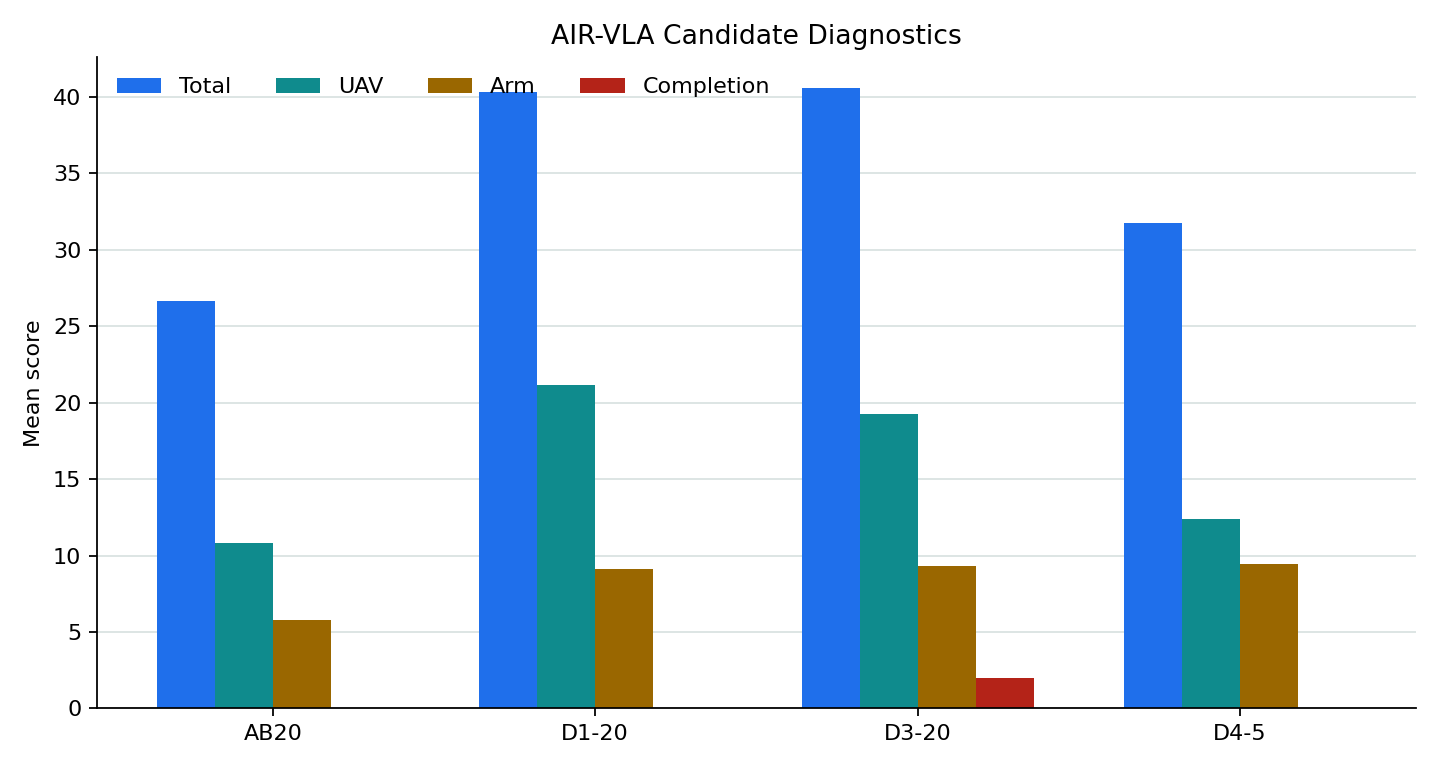
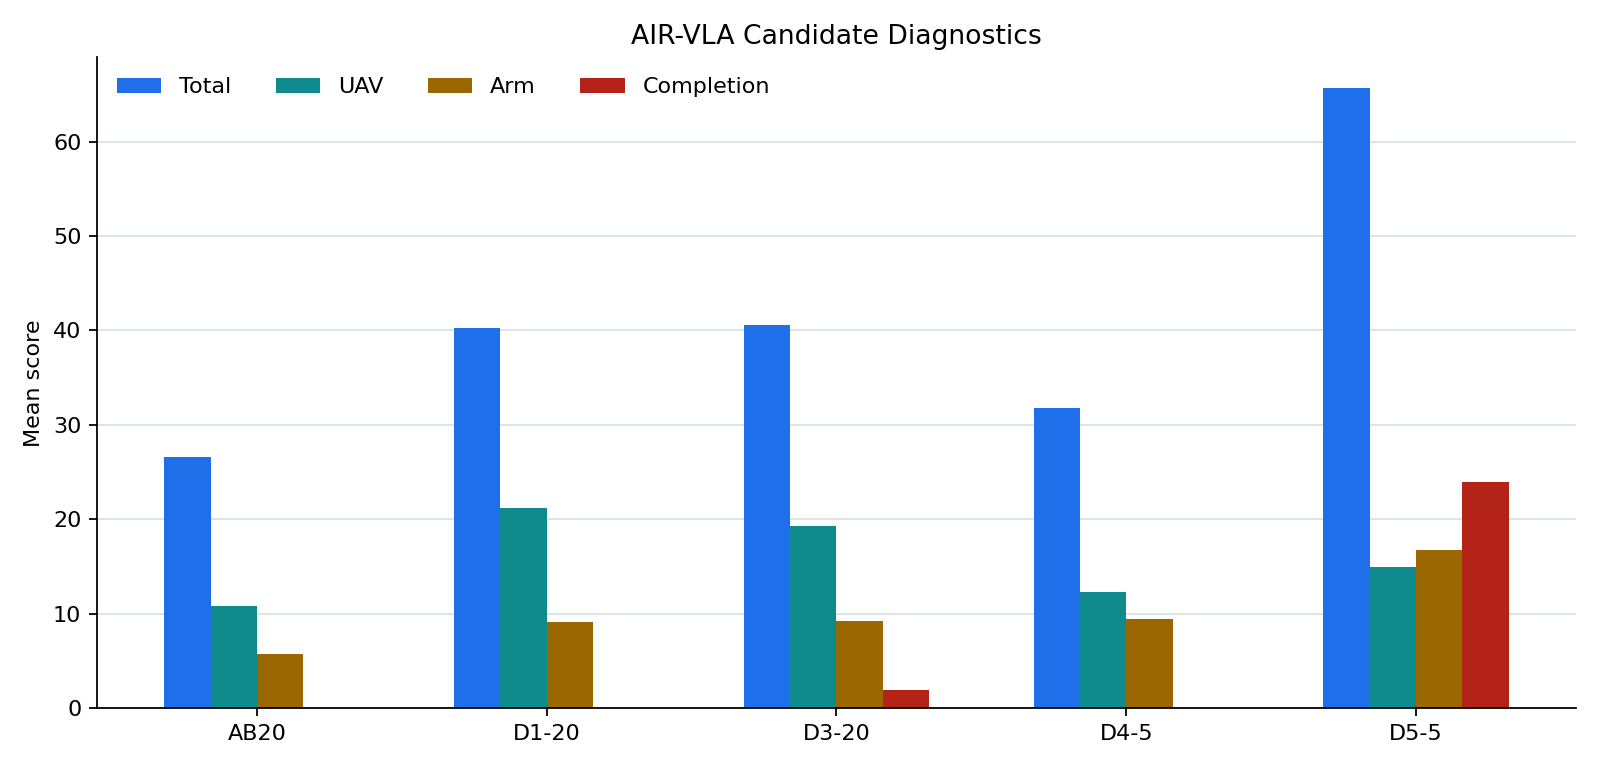
Add D5 AIR-VLA diagnostic to project page

diff --git a/index.html b/index.html
@@ -4,7 +4,7 @@
     <meta charset="utf-8">
     <meta name="viewport" content="width=device-width, initial-scale=1">
     <title>Execution-Feedback AIR-VLA Current Server Evidence</title>
-    <meta name="description" content="A bounded AIR-VLA and EF-AIR-VLA D0-D1 project page from the Work4 RTX5090 server sweep.">
+    <meta name="description" content="A bounded AIR-VLA and EF-AIR-VLA D0-D5 project page from the Work4 RTX5090 server sweep.">
     <link rel="stylesheet" href="styles.css">
   </head>
   <body>
@@ -20,7 +20,7 @@
       <div class="hero-inner">
         <p class="eyebrow">Work4 RTX5090 server sweep</p>
         <h1>Execution-Feedback AIR-VLA Current Server Evidence</h1>
-        <p class="subtitle">A bounded AIR-VLA and EF-AIR-VLA project page built from real server logs, metric tables, loss curves, and evaluator rollout media.</p>
+        <p class="subtitle">Real server evidence with evaluator GIFs, compact metrics, training curves, and gate-relative placement equations.</p>
         <div class="authors">Work4 embodied aerial manipulation study</div>
         <div class="button-row">
           <a class="button primary" href="data/site.json">Evidence JSON</a>
@@ -47,7 +47,7 @@
       <section id="abstract" class="section narrow">
         <h2>Abstract</h2>
         <p>
-          This page records the current Work4 server evidence for AIR-VLA reproduction and Execution-Feedback AIR-VLA design. The HDF5 audit, BC smoke, feedback smoke, evaluator diagnostics, and D1 to D4 candidate runs are all linked to local artifacts.
+          This page records the current Work4 server evidence for AIR-VLA reproduction and Execution-Feedback AIR-VLA design. HDF5 audits, CUDA smokes, evaluator diagnostics, and D1 to D5 candidate runs are linked to local artifacts.
         </p>
         <p>
           The current result is an engineering diagnostic rather than a performance claim. Official training code, policy inference assets, checkpoints, broad data coverage, and a stable full evaluator are still missing.
@@ -97,15 +97,19 @@
       <section id="candidate-process" class="section">
         <div class="section-head">
           <h2>State-Gated Candidate Iterations</h2>
-          <p>Small-scale AIR-VLA diagnostics show that action timing and UAV-target distance must be coupled before placement repair can be meaningful. D4 rejects an aggressive container-transfer target.</p>
+          <p>Small-scale diagnostics, real GIFs, and compact equations for the current placement-repair branch.</p>
         </div>
         <div class="iteration-spotlight">
           <figure class="spotlight-media">
-            <img src="assets/images/d3_state_gate_speed004_episode_1_loop4s.gif" alt="D3 state-gated speed 0.04 episode with completion signal">
-            <figcaption>D3 state gate, speed 0.04. The best diagnostic episode reached total 95 and completion 40. The 20-episode completion rate is still 1 of 20.</figcaption>
+            <img src="assets/images/d5_lift_standoff_episode_2_loop4s.gif" alt="D5 gate-relative lift-standoff episode with completion signal">
+            <figcaption>D5 gate-relative lift-standoff. Episode 2 reached total 99.99 and completion 40. The branch still needs a 20-episode stability gate.</figcaption>
           </figure>
           <div class="equation-panel">
-            <h3>Model Expression</h3>
+            <h3>Gate-Relative Lift Model</h3>
+            <div class="equation-row">
+              <span>Objective</span>
+              <code>J = S_uav + S_arm + S_safe + S_complete</code>
+            </div>
             <div class="equation-row">
               <span>Approach</span>
               <code>p_hat[t+1] = p_hat[t] + clip(p_obj - p_hat[t], Delta_max)</code>
@@ -127,17 +131,21 @@
               <code>J = S_uav + S_arm + S_safe + S_complete with post-close transfer T(t - tau_g)</code>
             </div>
             <div class="equation-row">
-              <span>D4 Result</span>
-              <code>J_D4 = 31.786 &lt; J_D3-5 = 49.058, so D5 sets T to lift only</code>
+              <span>D5 Update</span>
+              <code>T(t - tau_g) = small lift, base = standoff, no container offset</code>
+            </div>
+            <div class="equation-row">
+              <span>Decision</span>
+              <code>J_D5 = 65.628, C_D5 = 24.000, promote only to D5-20</code>
             </div>
           </div>
         </div>
+        <div class="candidate-media" id="candidate-media" aria-live="polite"></div>
         <div class="candidate-plots">
           <img src="assets/images/candidate_metric_bars_20260628.png" alt="AIR-VLA candidate metric comparison across 20 episode runs">
           <img src="assets/images/candidate_episode_curves_20260628.png" alt="Episode-level total and completion curves for AIR-VLA candidates">
         </div>
         <div class="candidate-grid" id="candidate-grid" aria-live="polite"></div>
-        <div class="candidate-media" id="candidate-media" aria-live="polite"></div>
       </section>
 
       <section id="media" class="section">

diff --git a/app.js b/app.js
@@ -89,7 +89,7 @@ function metricTile(label, value) {
 }
 
 function renderCandidateIterations(data) {
-  const promoted = new Set(["AB", "D1-20", "D2-5", "D3-20", "D4-5"]);
+  const promoted = new Set(["AB", "D1-20", "D2-5", "D3-20", "D4-5", "D5-5"]);
   const rows = data.iterations.filter((item) => promoted.has(item.id) || item.id === "AB");
   const cards = rows.map((item) => {
     const metrics = item.metrics || {};

diff --git a/tools/build_candidate_media.py b/tools/build_candidate_media.py
@@ -37,6 +37,11 @@ CLIPS = [
         "video": "d4_gate_transfer_episode_2_loop4s.mp4",
         "gif": "d4_gate_transfer_episode_2_loop4s.gif",
     },
+    {
+        "source": "d5_lift_standoff_episode_2.mp4",
+        "video": "d5_lift_standoff_episode_2_loop4s.mp4",
+        "gif": "d5_lift_standoff_episode_2_loop4s.gif",
+    },
 ]
 
 